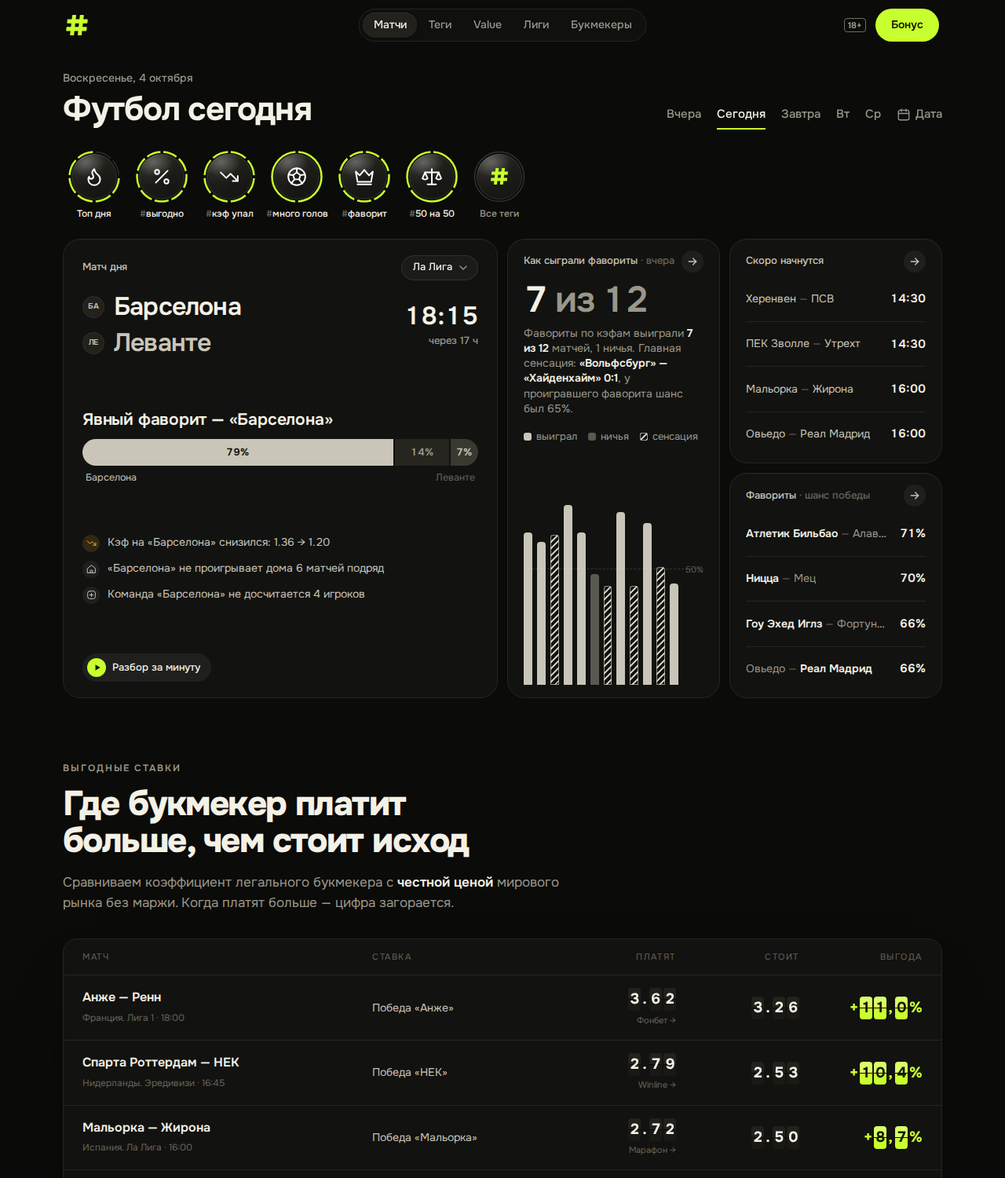
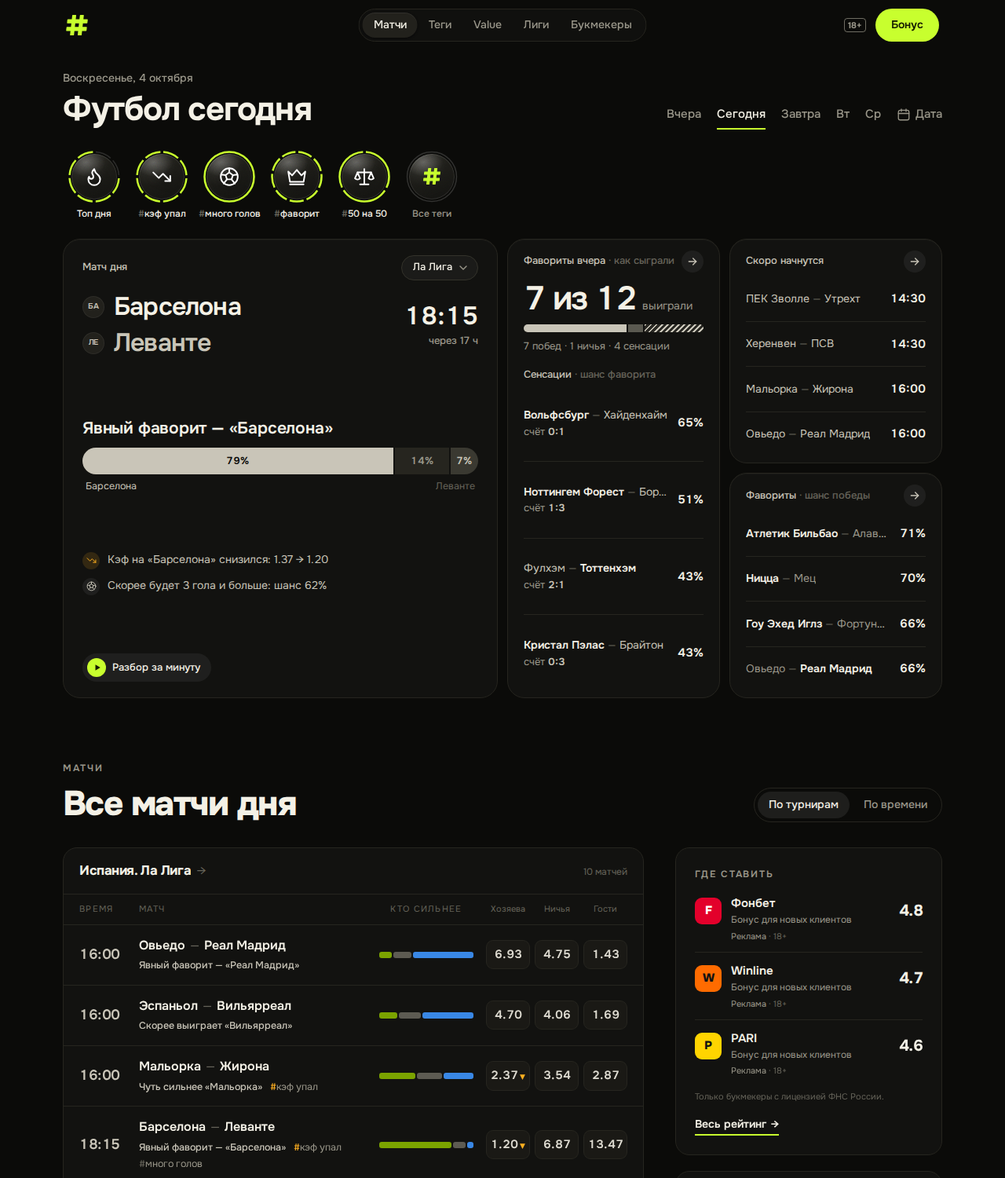
Аналитика «Фавориты вчера» — полоса и строки сенсаций вместо столбиков
Столбики без подписей и почти одной высоты ничего не объясняли, а абзац
текста был длинным. Теперь: «7 из 12 выиграли», одна сегментная полоса
«победы · ничьи · сенсации» с подписью словами и строки сенсаций (матч,
счёт, шанс фаворита) — та же схема строк, что у плиток-подборок.

Claude-Session: https://claude.ai/code/session_01LqCxNKeCAKNwhNzoBsjYvY

diff --git a/components/DaySummary.tsx b/components/DaySummary.tsx
@@ -402,78 +402,81 @@ function TopSlide({ it }: { it: FeedItem }) {
 
 // ─── Как сыграли фавориты вчера ──────────────────────────────────────────────
 
-const RESULT = {
-  won: { label: 'выиграл', bar: 'bg-chalk' },
-  draw: { label: 'ничья', bar: 'bg-[#5a5950]' },
-  // сенсация — штриховкой: не новый цвет (лайм, янтарь и красный заняты), а другая фактура
-  lost: { label: 'сенсация', bar: 'bg-[repeating-linear-gradient(135deg,var(--color-chalk)_0_2px,transparent_2px_6px)] ring-1 ring-inset ring-chalk/70' },
-} as const
-
 const q = (name: string) => `«${name}»`
-const score = (g: RecapGame) => (g.match.score ? `${g.match.score.home}:${g.match.score.away}` : '')
 
 /**
- * Аналитика дня: насколько вчера можно было полагаться на фаворитов. Крупно — «7 из 10»,
- * фраза словами с главной сенсацией, ниже — столбик на матч: высота — шанс фаворита до матча
- * (пунктир — 50%), заливка — чем кончилось. Честно и понятно без цифр.
+ * Аналитика дня: насколько вчера можно было полагаться на фаворитов. Крупно — «7 из 12»,
+ * одна полоса «выиграли · ничьи · сенсации» с подписью словами и строки сенсаций — матч со счётом
+ * и каким был шанс фаворита. Та же схема строк, что у плиток-подборок: строка открывает матч.
  */
 function RecapTile({ r, href }: { r: FavRecap; href: string }) {
   const n = r.games.length
-  const u = r.upset
+  // сенсации — проигрыши фаворитов, самые неожиданные первыми; не хватает — добираем ничьими
+  const odd = [...r.games.filter((g) => g.result === 'lost'), ...r.games.filter((g) => g.result === 'draw')].sort(
+    (a, b) => Number(a.result === 'draw') - Number(b.result === 'draw') || b.p - a.p,
+  )
+  const seg = (k: RecapGame['result']) => r.games.filter((g) => g.result === k).length
   return (
-    <article className={`flex h-full min-w-0 flex-col px-4 pb-4 pt-3.5 sm:px-5 ${CARD}`}>
+    <article className={`flex h-full min-w-0 flex-col px-4 pb-2 pt-3.5 sm:px-5 ${CARD}`}>
       <Link href={href} prefetch={false} className="group -mx-1 flex items-center justify-between gap-2 rounded-lg px-1">
         <span className="min-w-0 truncate text-[13px] font-medium text-chalk">
-          Как сыграли фавориты <span className="text-mute">· вчера</span>
+          Фавориты вчера <span className="text-mute">· как сыграли</span>
         </span>
         <Go />
       </Link>
-      <p className="num mt-3 text-[34px] font-semibold leading-none tracking-[-0.04em] lg:text-[clamp(34px,5vh,46px)]">
-        {r.won} <span className="text-dim">из {n}</span>
-      </p>
-      <p className="mt-2.5 text-[14px] leading-snug text-dim">
-        Фавориты по кэфам выиграли <b className="font-semibold text-fg">{r.won} из {n}</b> матчей
-        {r.draw ? <>, {pluralN(r.draw, ['ничья', 'ничьи', 'ничьих'])}</> : null}.{' '}
-        {u ? (
-          <>
-            Главная сенсация: <b className="font-semibold text-fg">{q(u.match.home.name)} — {q(u.match.away.name)} {score(u)}</b>, у проигравшего
-            фаворита шанс был {pct(u.p)}.
-          </>
-        ) : (
-          'Сенсаций не было.'
-        )}
-      </p>
-      <div className="mt-4 flex flex-wrap gap-x-3.5 gap-y-1 text-[13px] text-dim" aria-hidden>
-        {(['won', 'draw', 'lost'] as const).map((k) => (
-          <span key={k} className="inline-flex items-center gap-1.5">
-            <span className={`h-2.5 w-2.5 rounded-[3px] ${RESULT[k].bar}`} />
-            {RESULT[k].label}
-          </span>
-        ))}
-      </div>
-      {/* столбики: высота — шанс фаворита до матча, пунктир — 50% */}
-      <div className="relative mt-3 flex min-h-[96px] flex-1 items-end gap-1.5 pr-8" role="list" aria-label="Матчи фаворитов вчера">
-        <span className="pointer-events-none absolute inset-x-0 bottom-1/2 border-t border-dashed border-white/15" aria-hidden />
-        <span className="pointer-events-none absolute bottom-1/2 right-0 translate-y-1/2 text-[11px] leading-none text-mute" aria-hidden>
-          50%
+      <p className="mt-3 flex items-baseline gap-2">
+        <span className="num text-[34px] font-semibold leading-none tracking-[-0.04em] lg:text-[clamp(32px,4.6vh,42px)]">
+          {r.won} из {n}
         </span>
-        {r.games.map((g) => {
-          const fav = g.side === 'home' ? g.match.home.name : g.match.away.name
-          const t = `${q(g.match.home.name)} — ${q(g.match.away.name)} ${score(g)}: фаворит ${q(fav)} (${pct(g.p)}) — ${RESULT[g.result].label}`
+        <span className="text-[14px] text-dim">выиграли</span>
+      </p>
+      {/* одна полоса: доли исходов, подпись — словами под ней */}
+      <div className="mt-3 flex h-2.5 gap-0.5 overflow-hidden rounded-full" aria-hidden>
+        {(
+          [
+            ['won', 'bg-chalk'],
+            ['draw', 'bg-[#5a5950]'],
+            ['lost', 'bg-[repeating-linear-gradient(135deg,var(--color-chalk)_0_2px,#2a2924_2px_5px)]'],
+          ] as const
+        ).map(([k, cls]) => (seg(k) ? <span key={k} className={cls} style={{ flex: seg(k) }} /> : null))}
+      </div>
+      <p className="mt-2 text-[13px] text-dim">
+        {pluralN(r.won, ['победа', 'победы', 'побед'])}
+        {r.draw ? ` · ${pluralN(r.draw, ['ничья', 'ничьи', 'ничьих'])}` : ''}
+        {r.lost ? ` · ${pluralN(r.lost, ['сенсация', 'сенсации', 'сенсаций'])}` : ''}
+      </p>
+      <p className="mt-4 text-[13px] font-medium text-chalk">
+        {r.lost ? 'Сенсации' : r.draw ? 'Фавориты не дожали' : 'Все фавориты выиграли'}
+        {odd.length ? <span className="text-mute"> · шанс фаворита</span> : null}
+      </p>
+      <ol className="mt-1 flex flex-1 flex-col">
+        {odd.slice(0, 4).map((g, i) => {
+          const m = g.match
+          const fav = (side: 'home' | 'away') => (side === g.side ? 'font-semibold text-fg' : '')
           return (
-            <Link
-              key={g.match.id}
-              href={matchHref(g.match)}
-              prefetch={false}
-              role="listitem"
-              title={t}
-              aria-label={t}
-              className={`min-w-0 flex-1 rounded-t-[4px] transition-opacity hover:opacity-80 ${RESULT[g.result].bar}`}
-              style={{ height: `${Math.round(g.p * 100)}%` }}
-            />
+            <li key={m.id} className={`flex min-h-[50px] flex-1 border-t border-edge first:border-t-0 ${i >= 3 ? 'hidden lg:flex lg:[@media(max-height:759px)]:hidden' : ''}`}>
+              <Link
+                href={matchHref(m)}
+                prefetch={false}
+                title={`Фаворит ${q(g.side === 'home' ? m.home.name : m.away.name)}: шанс ${pct(g.p)}, итог ${m.score?.home}:${m.score?.away}`}
+                className={ROW}
+              >
+                <span className="min-w-0">
+                  <span className="block truncate">
+                    <span className={fav('home')}>{m.home.name}</span>
+                    <span className="text-mute"> — </span>
+                    <span className={fav('away')}>{m.away.name}</span>
+                  </span>
+                  <span className="block text-[13px] text-dim">
+                    счёт <span className="num font-semibold text-chalk">{m.score ? `${m.score.home}:${m.score.away}` : ''}</span>
+                  </span>
+                </span>
+                <span className="num shrink-0 text-[15px] font-semibold text-fg">{pct(g.p)}</span>
+              </Link>
+            </li>
           )
         })}
-      </div>
+      </ol>
     </article>
   )
 }

diff --git a/AGENTS.md b/AGENTS.md
@@ -20,7 +20,7 @@ This block is written and re-added by `next dev` — verify at `node_modules/nex
 - Демо без сети: `SSTATS_MOCK=1` (полосы над шапкой нет — только строка в подвале, `IS_MOCK` в `Footer.tsx`). Проверки: `npm run typecheck`, `npm test`, `npm run build`.
 - «Матч в слайдах» (сторис): данные — `lib/story.ts` → `/api/story/[id]`, просмотр и графики — `components/story/`. Ссылки на матч в списках — через `StoryLink` (обычная ссылка для SEO, клик открывает сторис).
 - Кружки историй на главной: группы — `lib/story-groups.ts` (порядок по `lib/rank.ts`), ряд — `components/story/StoryCircles.tsx`, очередь передаётся в просмотрщик через `openStory({ queue })`. Просмотренные — в `localStorage` (`components/story/seen.ts`, ключ `tagbet:seen:v2`), только для колец и отдельно для каждого кружка (отметка «кружок:матч»): просмотр в одном кружке не гасит другие, открытия из списков и виджетов не считаются; сегменты гаснут по порядку от верха. Очередь по тапу и отметки повторов — `components/story/queue.ts` (тест `tests/story-queue.test.ts`). На главной — «В игре», «Топ дня» и до 5 главных тегов (`mainCircles`), подписи в одну строку.
-- «Сводка дня» (виджеты первого экрана главной): данные — `lib/day-summary.ts` (`buildDaySummary`: матч дня и подборки `lists` — live, ближайшие, фавориты от 60%, голы, выгодные, падение кэфа; матч дня в подборках не повторяется; `summaryCards` — какие 4 плитки показать: что идёт (или скоро начнётся) → фавориты → голы → выгодно, запасные — кэф упал, ближайшие, турниры дня), вид — `components/DaySummary.tsx`. «Матч дня» — `components/TopCarousel.tsx` (клиент): по слайду на главный матч каждой топ-лиги (`tops` в `buildDaySummary`, до 5, первым — матч дня); лига выбирается чипом-меню «Ла Лига ▾» справа сверху, сама карточка не листается (выбор не должен уезжать); лента со scroll-snap — свайп на телефоне, без JS видны все слайды. На «Сегодня» рядом — аналитика «Как сыграли фавориты · вчера» (`favoritesRecap` в `lib/day-summary.ts`, `RecapTile`): «7 из 12», фраза с главной сенсацией, столбик на матч (высота — шанс фаворита до матча, пунктир 50%, заливка: выиграл — светлая, ничья — серая, сенсация — штриховка, не новый цвет); тёмная, во всю высоту, на месте двух плиток — подборок справа тогда две. На компьютере слева высокий «Матч дня»: команды и время начала справа, как на табло (в игре — счёт; «через 40 мин» — от sm), вывод словами и нейтральная полоса шансов в процентах с подписями «команда · Ничья · команда» (светлая — фаворит), до трёх фактов «почему» из тегов (значки — как у кружков этих тегов; третий — только при высоте окна от 780px), «Разбор за минуту» и «Выгодно». Справа — до 4 плиток-подборок 2×2: каждая отвечает на один вопрос несколькими матчами — заголовок с вопросом и что значит цифра («Фавориты · шанс победы», «Ждём голов · шанс 3+ голов»), строки «команды … цифра» (выделенная команда — ярче или цветом подборки), строка открывает сторис, заголовок со стрелкой `Go` — страницу тега или список матчей. Строки делят высоту плитки поровну (пустот нет); четвёртая — только на lg при высоте окна от 760px. Не возвращайте плитки «одна крупная цифра + один матч» — владелец счёл их неинформативными; и не убирайте «Матч дня» — без него сводка («Главное за день») не понравилась. Всё тёмное, цвет — только у цифр и выделенной команды: лайм — выгодно, янтарь — кэф упал, красный — live; текст не мельче 13px, без колец-диаграмм (похожи на значок загрузки). Выбор дня — `DateTabs` (Вчера · Сегодня · Завтра · дальше день недели без числа; красная точка у «Сегодня», пока идут матчи — `liveToday` из `DayView`) + календарь `DatePicker` (±1 год / +2 месяца). Порядок «Все матчи дня» — переключатель «По турнирам / По времени» ссылками `?sort=time` (без JS, canonical прежний; `TimeBlock` — по часам, с турниром в строке); на прошедших днях переключателя нет — там порядок по турнирам, главные результаты первыми. Первый экран главной (шапка, кружки, сводка) на компьютере занимает всё окно: обёртка в `DayView` — `lg:min-h-[min(calc(100svh-7rem),50rem)]`, сводка — `lg:flex-1`, команды и вывод «Матча дня» растут с высотой окна (`clamp(…vh…)`), а «Все матчи дня» начинаются ниже, по прокрутке. Сводка должна влезать целиком в 1280×720 и 1440×760, а заголовок «Матчи» — не выглядывать снизу; проверяйте замером. На прошедших днях сводки нет.
+- «Сводка дня» (виджеты первого экрана главной): данные — `lib/day-summary.ts` (`buildDaySummary`: матч дня и подборки `lists` — live, ближайшие, фавориты от 60%, голы, выгодные, падение кэфа; матч дня в подборках не повторяется; `summaryCards` — какие 4 плитки показать: что идёт (или скоро начнётся) → фавориты → голы → выгодно, запасные — кэф упал, ближайшие, турниры дня), вид — `components/DaySummary.tsx`. «Матч дня» — `components/TopCarousel.tsx` (клиент): по слайду на главный матч каждой топ-лиги (`tops` в `buildDaySummary`, до 5, первым — матч дня); лига выбирается чипом-меню «Ла Лига ▾» справа сверху, сама карточка не листается (выбор не должен уезжать); лента со scroll-snap — свайп на телефоне, без JS видны все слайды. На «Сегодня» рядом — аналитика «Фавориты вчера · как сыграли» (`favoritesRecap` в `lib/day-summary.ts`, `RecapTile`): «7 из 12 выиграли», одна сегментная полоса «победы · ничьи · сенсации» с подписью словами и строки сенсаций (матч, счёт, шанс фаворита) — та же схема строк, что у подборок; не возвращайте столбиковую диаграмму без подписей — владелец счёл её странной; тёмная, во всю высоту, на месте двух плиток — подборок справа тогда две. На компьютере слева высокий «Матч дня»: команды и время начала справа, как на табло (в игре — счёт; «через 40 мин» — от sm), вывод словами и нейтральная полоса шансов в процентах с подписями «команда · Ничья · команда» (светлая — фаворит), до трёх фактов «почему» из тегов (значки — как у кружков этих тегов; третий — только при высоте окна от 780px), «Разбор за минуту» и «Выгодно». Справа — до 4 плиток-подборок 2×2: каждая отвечает на один вопрос несколькими матчами — заголовок с вопросом и что значит цифра («Фавориты · шанс победы», «Ждём голов · шанс 3+ голов»), строки «команды … цифра» (выделенная команда — ярче или цветом подборки), строка открывает сторис, заголовок со стрелкой `Go` — страницу тега или список матчей. Строки делят высоту плитки поровну (пустот нет); четвёртая — только на lg при высоте окна от 760px. Не возвращайте плитки «одна крупная цифра + один матч» — владелец счёл их неинформативными; и не убирайте «Матч дня» — без него сводка («Главное за день») не понравилась. Всё тёмное, цвет — только у цифр и выделенной команды: лайм — выгодно, янтарь — кэф упал, красный — live; текст не мельче 13px, без колец-диаграмм (похожи на значок загрузки). Выбор дня — `DateTabs` (Вчера · Сегодня · Завтра · дальше день недели без числа; красная точка у «Сегодня», пока идут матчи — `liveToday` из `DayView`) + календарь `DatePicker` (±1 год / +2 месяца). Порядок «Все матчи дня» — переключатель «По турнирам / По времени» ссылками `?sort=time` (без JS, canonical прежний; `TimeBlock` — по часам, с турниром в строке); на прошедших днях переключателя нет — там порядок по турнирам, главные результаты первыми. Первый экран главной (шапка, кружки, сводка) на компьютере занимает всё окно: обёртка в `DayView` — `lg:min-h-[min(calc(100svh-7rem),50rem)]`, сводка — `lg:flex-1`, команды и вывод «Матча дня» растут с высотой окна (`clamp(…vh…)`), а «Все матчи дня» начинаются ниже, по прокрутке. Сводка должна влезать целиком в 1280×720 и 1440×760, а заголовок «Матчи» — не выглядывать снизу; проверяйте замером. На прошедших днях сводки нет.
 - Шапка (логотип — только наклонная лаймовая решётка `LogoMark`, 26 px в шапке и 28 в подвале, без надписи «tag.bet» — так решил владелец; знак — `components/logo-paths.ts` из `public/brand/mark.svg`; без подложки): `components/Header.tsx` + `HeaderShell.tsx` (стекло после прокрутки) + `NavCapsule.tsx` (меню-капсула; раздел по адресу — `activeNav`).
 - Цвета по смыслу: лайм — «цена выше честной» (сила перевеса — яркостью лайма, `edgeTone` в `components/Flaps.tsx`), янтарь — прогруз, красный — live. Светофор не используем.
 - Для тех, кто не разбирается в цифрах: вывод словами — `lib/verdict.ts` (`buildVerdict`: «Скорее выиграет «X»», голы, падение кэфа, выгодная ставка; `split100` — проценты трёх исходов в сумме ровно 100, `outcomeText`/`outcomeShort` — исход словами вместо «П1»/«ТБ 2.5»). Только факты из данных: про прогруз — «кэф снизился», не «массово ставят». Пороги слов — как у тега #фаворит (60%) и слайда «Кто фаворит» (47%). Без обещаний: только «скорее», «вероятно». В строках и «Матче дня» — только выгодная ставка (обычный прогноз модели бывает «против» вывода). Теги подписаны простыми словами (`label`: `#выгодно`, `#кэф упал`…), slug и адреса прежние; цифра тега — в `TagHit.p`, а не в тексте.

diff --git a/README.md b/README.md
@@ -37,7 +37,7 @@
   каждая отвечает на один вопрос несколькими матчами: что идёт сейчас (или скоро начнётся), фавориты
   с шансом победы, где ждать голов, где кэф выше честного, где он упал. Строка открывает сторис матча,
   заголовок со стрелкой — все такие матчи. На «Сегодня» — аналитика «Как сыграли фавориты вчера»: сколько
-  фаворитов по кэфам выиграло, главная сенсация и столбик на каждый матч; список матчей начинается ниже, по прокрутке. Дальше — таблица «Выгодные ставки», матчи по турнирам (топ-лиги
+  фаворитов по кэфам выиграло, полоса «победы · ничьи · сенсации» и сенсации строками; список матчей начинается ниже, по прокрутке. Дальше — таблица «Выгодные ставки», матчи по турнирам (топ-лиги
   первыми), live-счёт; в строке матча — вывод словами («Скорее выиграет «X»»), полоса «кто сильнее»,
   кэфы на хозяев · ничью · гостей с отметкой падения, выгодный кэф горит лаймом, теги. Выбор дня — вкладки
   «Вчера · Сегодня · Завтра · Вт · Ср» (красная точка у «Сегодня», пока идут матчи) и кнопка календаря: любой день
